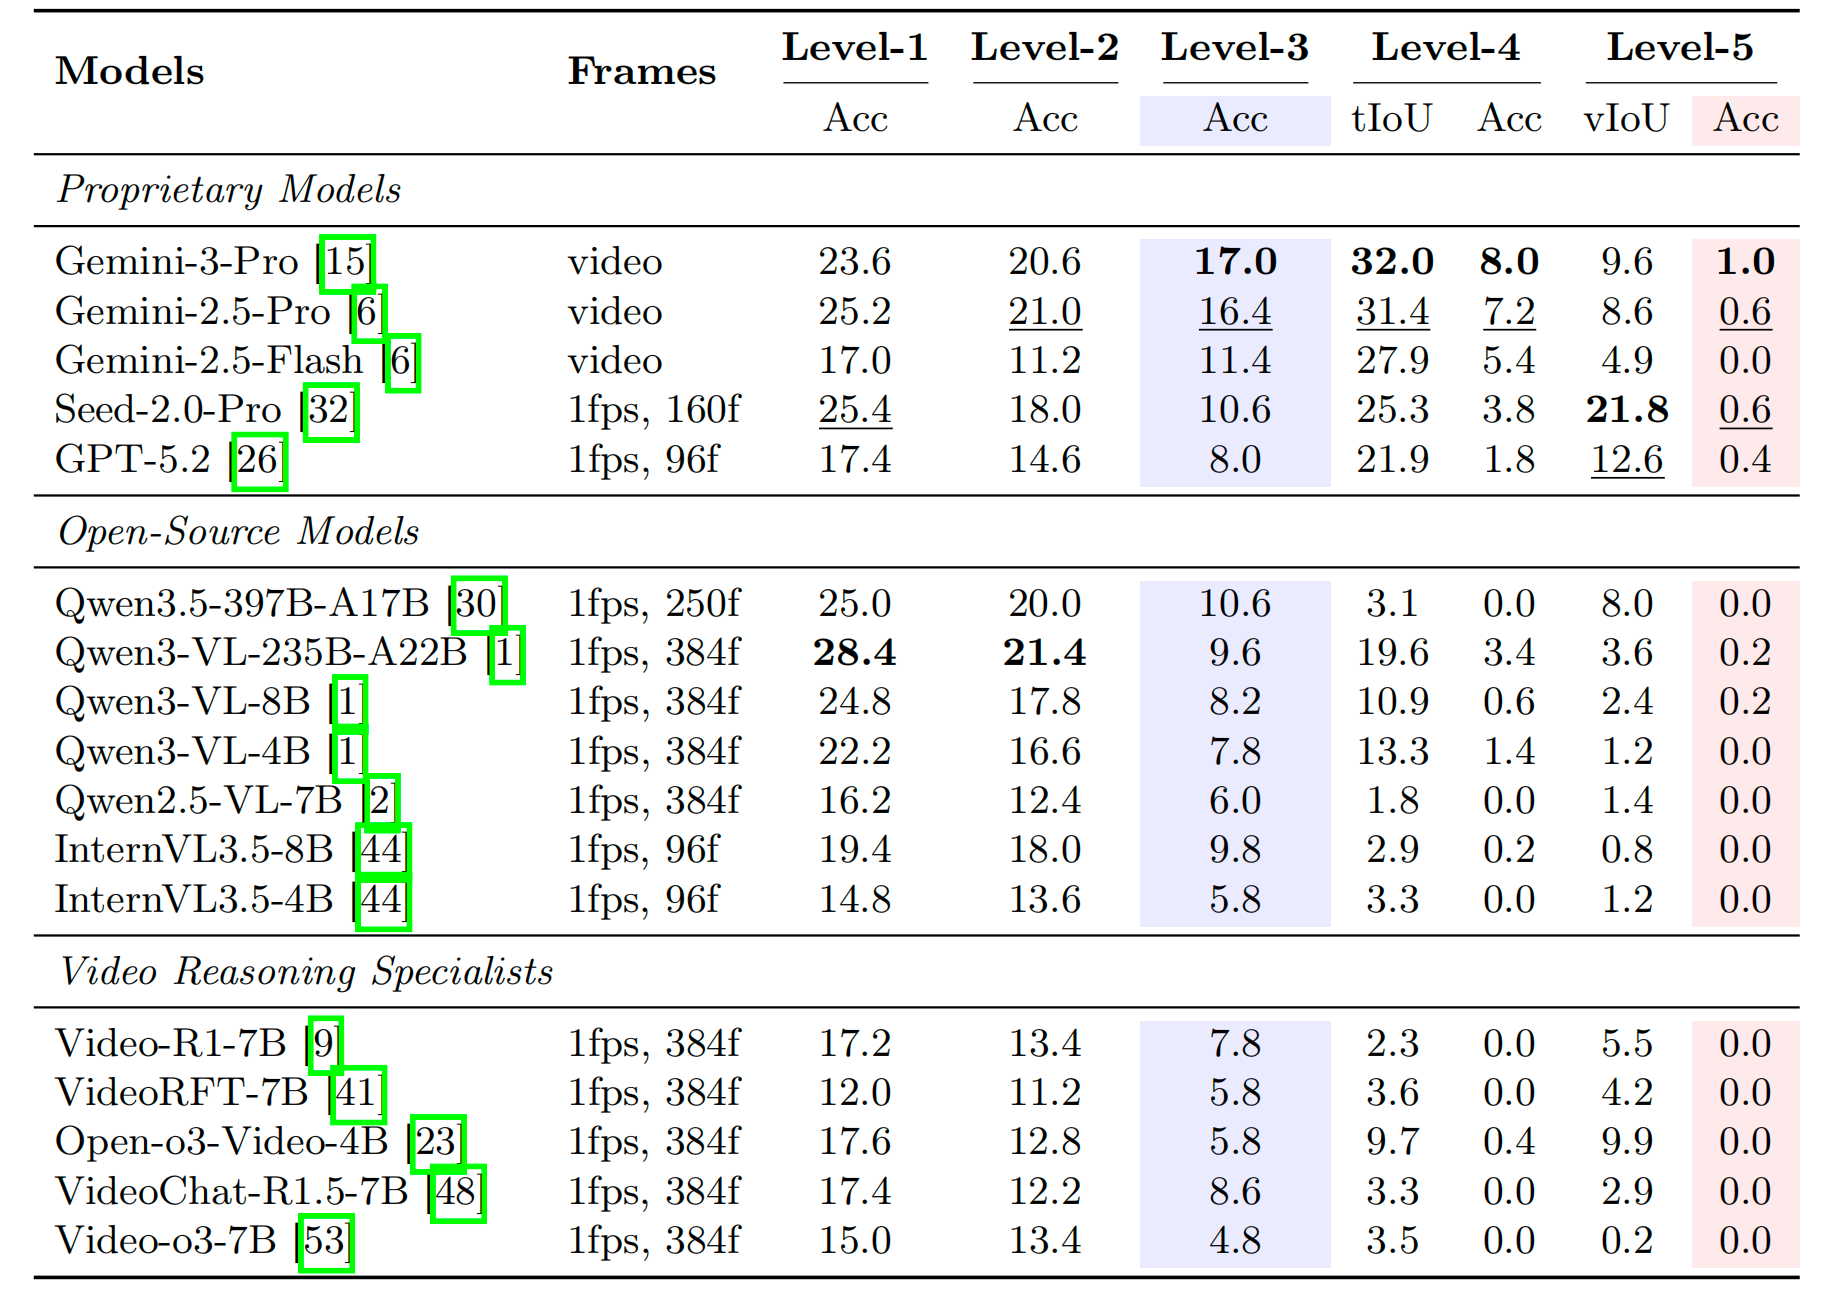
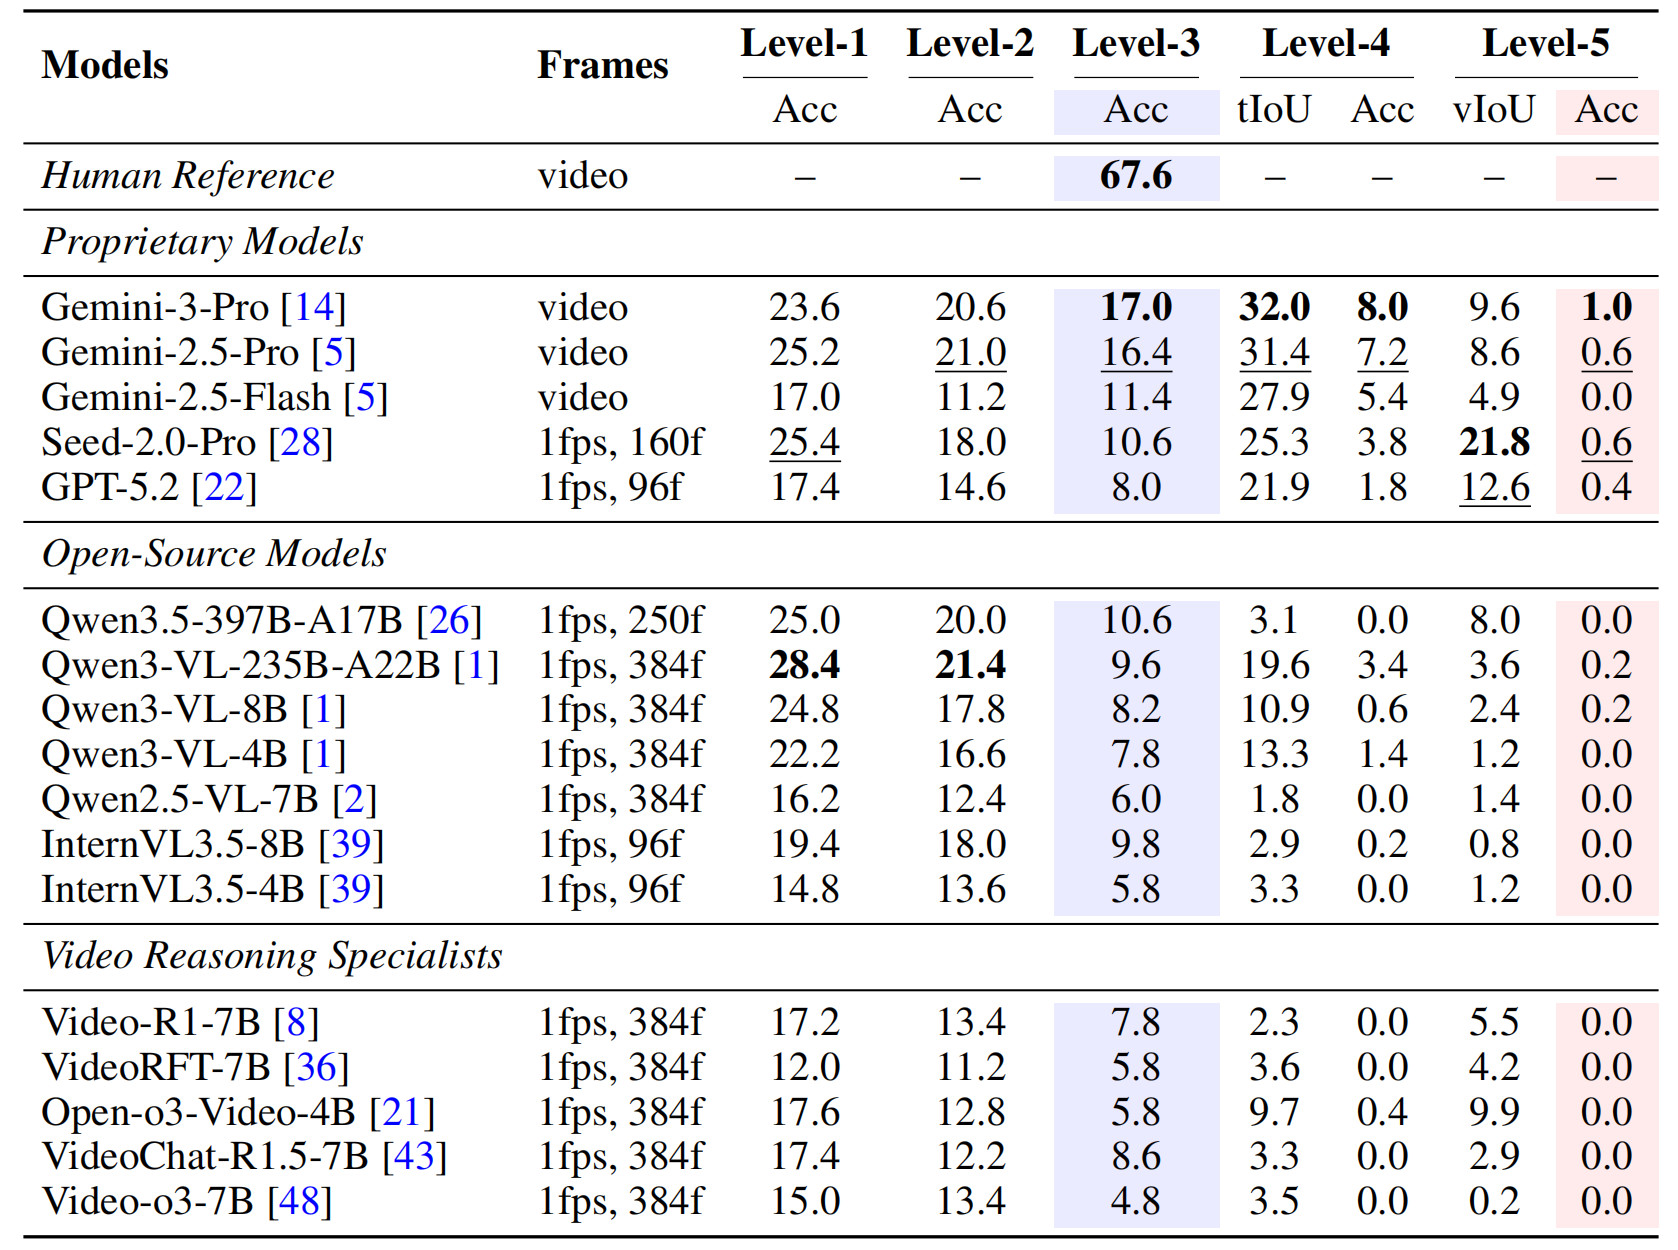
update videozerobench

Changed region(s): [[0.0, 0.0, 0.9917, 0.9984]]

diff --git a/projects/VideoZeroBench/index.html b/projects/VideoZeroBench/index.html
@@ -123,7 +123,7 @@
         <div class="container">
           <figure class="paper-figure spotlight-card reveal">
             <img
-              src="images/teaser.png"
+              src="images/teaser.jpg"
               alt="VideoZeroBench teaser illustration"
               loading="eager"
             />
@@ -157,29 +157,31 @@
               supporting their predictions.
             </p>
             <p>
-              To address this, we present <strong>VideoZeroBench</strong>, a
-              hierarchical benchmark designed for challenging long-video
-              question answering that rigorously verifies spatio-temporal
-              evidence. It comprises 500 manually annotated questions across 13
-              domains, paired with temporal intervals and spatial bounding boxes
-              as evidence.
+              To address this, we present <strong>VideoZeroBench</strong>, the
+              first hierarchical benchmark designed for challenging question
+              answering that rigorously verifies spatio-temporal evidence. To
+              disentangle evidence utilization and sub-tasks, including standard
+              question answering, temporal grounding, and spatial grounding, we
+              introduce a <strong>five-level evaluation protocol</strong> that
+              progressively tightens evidence requirements.
             </p>
             <p>
-              To disentangle answer generation, temporal grounding, and spatial
-              grounding, we introduce a <strong>five-level evaluation protocol</strong> 
-              that progressively tightens evidence requirements. Experiments show that
-              even Gemini-3-Pro correctly answers fewer than 17% of questions
-              under the standard end-to-end QA setting (Level-3).
+              Overall, VideoZeroBench contains 2,314 queries across the five
+              levels, spanning 13 domains and paired with temporal intervals and
+              spatial bounding boxes as annotations. All annotations are
+              performed by PhD-level annotators with rigorous quality control.
+              Experiments show that even Gemini-3-Pro correctly answers fewer
+              than 17% of questions under the standard end-to-end QA setting
+              (Level-3).
             </p>
             <p>
               When grounding constraints are imposed, performance drops sharply:
               no model exceeds 1% accuracy when both correct answering and
-              accurate spatio-temporal localization are required (Level-5), with
-              most failing to achieve any correct grounded predictions. These
-              results expose a significant gap between surface-level answer
-              correctness and genuine evidence-based reasoning, revealing that
-              grounded video understanding remains a bottleneck for long-video
-              QA.
+              accurate spatio-temporal localization are required (Level-5).
+              These results expose a significant gap between surface-level
+              answer correctness and genuine evidence-based reasoning, revealing
+              that grounded video understanding remains a bottleneck for
+              long-video QA.
             </p>
             <p>
               We further analyze performance across minimal evidence spans,
@@ -228,11 +230,12 @@
             </article>
 
             <article class="feature-card spotlight-card reveal">
-              <p class="feature-tag">Scale</p>
+              <p class="feature-tag">Annotation</p>
               <h3>High-Quality Manual Annotation</h3>
               <p>
-                500 questions with human-verified temporal intervals and spatial
-                boxes across 13 real-world domains.
+                PhD-level annotators create both question-answer pairs and
+                spatio-temporal evidence annotations under rigorous quality
+                control.
               </p>
             </article>
 
@@ -264,7 +267,7 @@
           </div>
           <figure class="paper-figure spotlight-card reveal">
             <img
-              src="images/statistics.png"
+              src="images/statistics.jpg"
               alt="Data construction and statistics of VideoZeroBench"
               loading="lazy"
             />
@@ -299,7 +302,8 @@
               maximum frame limit. The blue column (Level-3) reports standard QA
               accuracy, while the red column (Level-5) reports accuracy
               requiring both correct answers and spatio-temporal grounding.
-              "tiou" means temporal IoU and "viou" means visual IoU.
+              "tiou" means temporal IoU and "viou" means visual IoU. 
+              Human performance is reported on a randomly sampled 50-example Level-3 subset.
             </figcaption>
           </figure>
         </div>
